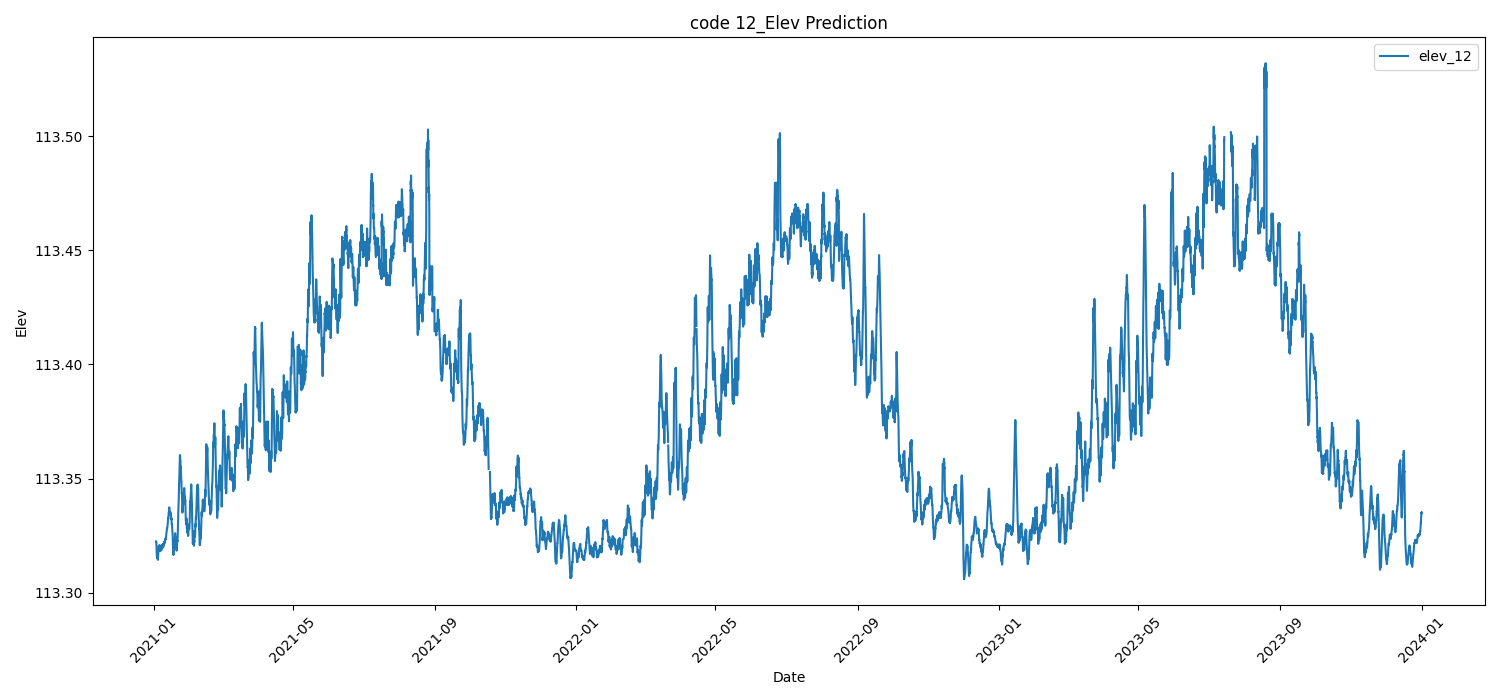
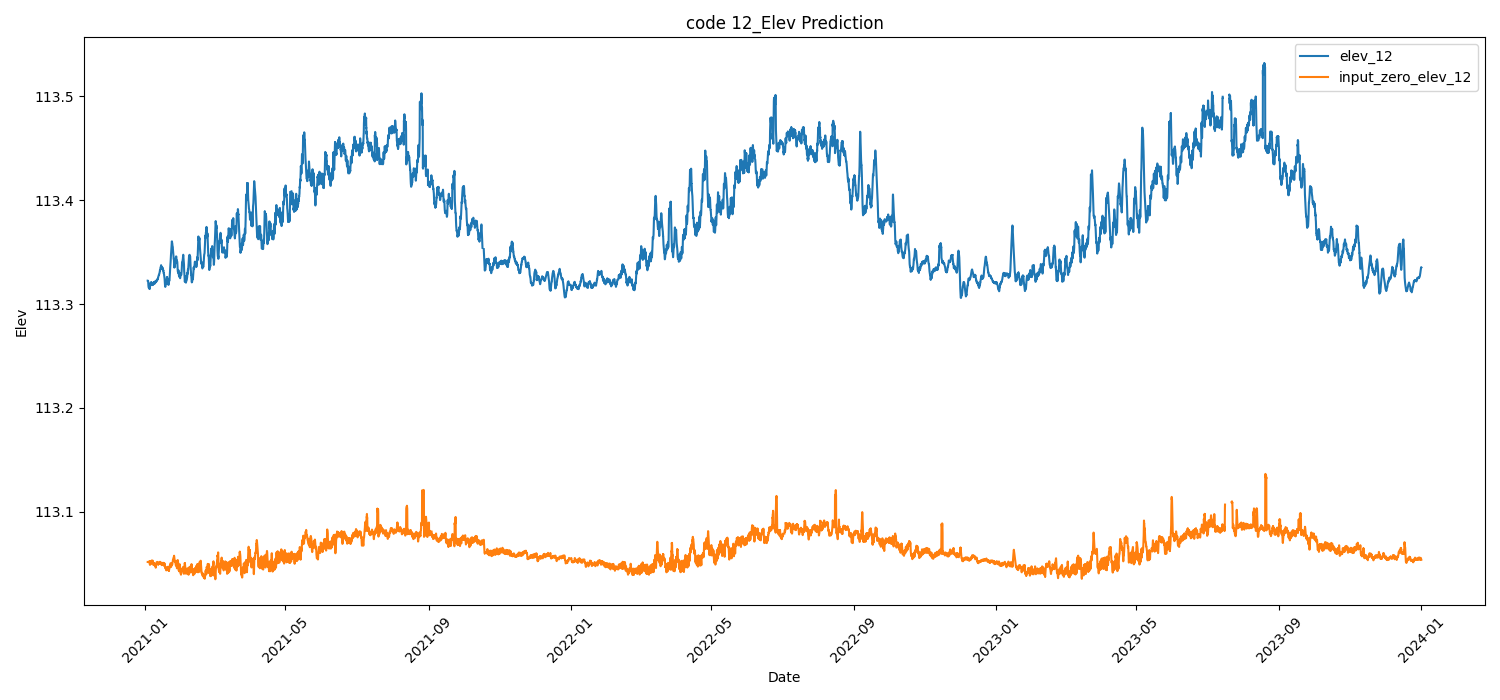
우리 올라갔어!!

diff --git a/TST/TST_test/encoder_tst_test.py b/TST/TST_test/encoder_tst_test.py
@@ -4,78 +4,61 @@ import torch
 import torch.nn as nn
 from torch.utils.data import DataLoader, Dataset, Subset
 from sklearn.preprocessing import StandardScaler
+import matplotlib.pyplot as plt
 import math
 import random
-import matplotlib.pyplot as plt # Matplotlib import 추가
 
 
-# --------------------
-# 1. 클래스 및 함수 정의 (Encoder-Only 모델 사용)
-# --------------------
 
 class PositionalEncoding(nn.Module):
     def __init__(self, d_model, max_len=5000):
         super(PositionalEncoding, self).__init__()
         pe = torch.zeros(max_len, d_model)
-        position = torch.arange(0, max_len, dtype=torch.float).unsqueeze(1) 
-        div_term = torch.exp(torch.arange(0, d_model, 2).float() * (-math.log(10000.0) / d_model))
+        position = torch.arange(0, max_len, dtype=torch.float).unsqueeze(1) #shape=(max_len,1)
+        div_term = torch.exp(torch.arange(0, d_model, 2).float() * (-math.log(10000.0) / d_model)) #오버플로우 예방 exp+ln
         pe[:, 0::2] = torch.sin(position * div_term)
-        pe[:, 1::2] = torch.cos(position * div_term)
-        pe = pe.unsqueeze(0).transpose(0, 1)
-        self.register_buffer('pe', pe)
+        pe[:, 1::2] = torch.cos(position * div_term) #shape=(max_len,d_model)
+        pe = pe.unsqueeze(0).transpose(0, 1) #shape=(max_len,1,d_model)
+        self.register_buffer('pe', pe) #위치 인코더 값 고정 -> 버퍼저장
     def forward(self, x):
-        # x.size(0) is the sequence length
         return x + self.pe[:x.size(0), :]
 
+
 class TimeSeriesDataset(Dataset):
-    def __init__(self, x_data, y_data, dates, input_len=24, pred_len=1, is_inference=False):
+    def __init__(self, x_data, y_data, dates, input_len=24, pred_len=1):
         self.x_data = x_data
         self.y_data = y_data
-        self.dates = [str(d) for d in dates]
         self.input_len = input_len
         self.pred_len = pred_len
-        self.is_inference = is_inference # 추론 모드 플래그 추가
+        self.dates = [str(d) for d in dates] #날짜 문자열로 변경
 
     def __len__(self):
-        # 학습: 마지막 시점까지 데이터를 만들 수 있는 인덱스 + 1
-        # 추론: 전체 시계열에서 인코더 입력 길이만큼 빼서 첫 예측 시작점을 찾음
-        if self.is_inference:
-            return len(self.x_data) - self.input_len + 1
-        else:
-            return len(self.x_data) - self.input_len - self.pred_len + 1
+        return len(self.x_data) - self.input_len - self.pred_len + 1
 
     def __getitem__(self, idx):
         x = self.x_data[idx:idx+self.input_len]
-        date = self.dates[idx+self.input_len-1] # 인코더의 마지막 시점 날짜
-
-        if not self.is_inference:
-            # 학습/검증: 타겟 Y값 존재
-            y = self.y_data[idx+self.input_len:idx+self.input_len+self.pred_len]
-            return torch.tensor(x, dtype=torch.float32), torch.tensor(y, dtype=torch.float32), date
-        else:
-            # 추론: 타겟 Y값은 사용하지 않음
-            # 타겟 날짜는 인코더 마지막 시점의 다음 시점입니다.
-            prediction_date = self.dates[idx + self.input_len] if idx + self.input_len < len(self.dates) else None
-            return torch.tensor(x, dtype=torch.float32), torch.empty(self.pred_len, 1, dtype=torch.float32), prediction_date
-
+        y = self.y_data[idx+self.input_len:idx+self.input_len+self.pred_len]
+        date = self.dates[idx+self.input_len]
+        return torch.tensor(x, dtype=torch.float32), torch.tensor(y, dtype=torch.float32), date
+#이때, Q,K,V 벡터의 차원(논문에서는 64 = d model(512) / num_heads(8) ) < d model의 차원 (논문에서는 512)
 
 class TimeSeriesTransformer(nn.Module):
     def __init__(self, feature_size, d_model=32, nhead=4, num_layers=1, dropout=0.1, pred_len=1):
         super(TimeSeriesTransformer, self).__init__()
-        self.embedding = nn.Linear(feature_size, d_model) 
-        self.pos_encoder = PositionalEncoding(d_model) 
-        encoder_layer = nn.TransformerEncoderLayer(d_model=d_model, nhead=nhead, dropout=dropout, batch_first=False) 
-        self.transformer_encoder = nn.TransformerEncoder(encoder_layer, num_layers=num_layers) 
-        self.fc_out = nn.Linear(d_model, pred_len) 
+        self.embedding = nn.Linear(feature_size, d_model) #특징 차원을 d_model 과 동일하게 바꿔줌
+        self.pos_encoder = PositionalEncoding(d_model) #위치 인코딩
+        encoder_layer = nn.TransformerEncoderLayer(d_model=d_model, nhead=nhead, dropout=dropout, batch_first=False) # 단일 레이어#batch_first = false <- 입력 데이터 차원 순서 (시퀀스 길이,배치크기,특징 차원)
+        self.transformer_encoder = nn.TransformerEncoder(encoder_layer, num_layers=num_layers) #지정 수만큼 인코더 레이어 복제
+        self.fc_out = nn.Linear(d_model, pred_len) #입력 차원-> 출력 차원 길이로 변환
         self.d_model = d_model
 
     def forward(self, x):
-        x = self.embedding(x) * math.sqrt(self.d_model) 
-        x = x.permute(1, 0, 2)
-        x = self.pos_encoder(x) 
-        out = self.transformer_encoder(x) 
-        out = out[-1, :, :] # 마지막 시점의 출력값
-        out = self.fc_out(out)
+        x = self.embedding(x) * math.sqrt(self.d_model) #임베딩 값(d_model 차원으로 변환) -> 스케일링 : attention score
+        x = x.permute(1, 0, 2)#입력텐서 차원 순서 변경
+        x = self.pos_encoder(x) #임베딩 정보 더하기
+        out = self.transformer_encoder(x) #전체 인코더레이어 통과
+        out = out[-1, :, :] #마지막 시점의 출력값 (24일 간의 데이터를 모두 합쳐놓은 값)
+        out = self.fc_out(out) #차원 변경
         return out
 
 def nse(obs, sim):
@@ -84,123 +67,47 @@ def nse(obs, sim):
     return 1 - np.sum((sim - obs)**2) / denominator
 
 def kge(obs, sim):
-    # NaN이나 무한대 값 처리
-    sim = sim[~np.isnan(sim)]
-    obs = obs[~np.isnan(obs)]
-    if len(obs) == 0 or np.std(obs) == 0 or np.std(sim) == 0: return -np.inf
-    
+    if np.std(obs) == 0 or np.std(sim) == 0: return -np.inf
     r = np.corrcoef(sim, obs)[0, 1]
-    # np.corrcoef가 NaN을 반환하는 경우 대비
-    if np.isnan(r): return -np.inf 
-    
     alpha = np.std(sim) / np.std(obs)
     beta = np.mean(sim) / np.mean(obs)
     return 1 - np.sqrt((r-1)**2 + (alpha-1)**2 + (beta-1)**2)
 
 
-# --------------------
-# 2. 데이터 로드 및 전처리
-# --------------------
+ddf = pd.read_csv("TST/TST_test/code_4.csv")
+test_df=pd.read_csv("total_rename_data/test_inputs.csv")
+ddf["ymd"] = pd.to_datetime(ddf["ymd"])
 
-# ⭐ 학습 데이터: 2014_2020_시계열_지하수_기상_train.csv (파일 경로는 환경에 맞게 조정하세요)
-ddf_train = pd.read_csv("total_rename_data_trainData.csv", encoding='utf-8')
-# ⭐ 추론 데이터: TST_test1.csv
-test_df_raw = pd.read_csv('trainData.csv') 
+ddf = ddf.ffill()
 
-# 날짜 변환 및 결측치 처리
-ddf_train["ymd"] = pd.to_datetime(ddf_train["ymd"])
-test_df_raw["ymd"] = pd.to_datetime(test_df_raw["ymd"])
-ddf_train = ddf_train.ffill()
-test_df_raw = test_df_raw.ffill()
-
-ddf_train['code_new'] = ddf_train['code_new'].astype(str)
-test_df_raw['code_new'] = test_df_raw['code_new'].astype(str)
-
-
-device = torch.device("cuda" if torch.cuda.is_available() else "cpu")
-all_preds_df = None 
-
-# 특성 열 목록 (ddf_train 기반)
-feature_cols = [col for col in ddf_train.columns if col not in ["ymd", "code_new", "elev"]]
-INPUT_LEN = 24
-PRE_STEPS = INPUT_LEN # 이전 시계열 데이터 연결 길이
-
-# ⭐ 최종 제출에 사용될 코드와 열 이름을 매핑 (학습 데이터의 순서를 기준으로 1부터 12까지 부여)
-all_train_codes = sorted(ddf_train['code_new'].unique().tolist())
-code_mapping = {code_name: str(i + 1) for i, code_name in enumerate(all_train_codes)}
-
-
-# --------------------
-# 4. 관측소(code_new)별 학습 및 추론 루프
-# --------------------
-
-for code, df_train_full in ddf_train.groupby('code_new'):
-    # 해당 코드가 최종 제출 12개 코드에 포함되지 않으면 건너뜁니다.
-    if code not in code_mapping:
-        continue
-
-    print(f"\n=======================================================")
-    print(f"--- Processing code_new: {code} (-> Column {code_mapping[code]}) ---")
-    
-    # 1. 스케일링 설정 및 학습 데이터셋 준비
-    df_train_full = df_train_full.sort_values(by="ymd").reset_index(drop=True)
-    train_features = df_train_full[feature_cols].values
-    train_target = df_train_full[["elev"]].values
-    
+for code,df in ddf.groupby('code_new'):
+    df = df.sort_values(by="ymd").reset_index(drop=True)
+    features = df.drop(columns=["ymd", "code_new", "elev"])
+    target = df[["elev"]].values
     feature_scaler = StandardScaler()
     target_scaler = StandardScaler()
-    scaled_train_features = feature_scaler.fit_transform(train_features)
-    scaled_train_target = target_scaler.fit_transform(train_target) # target_scaler는 fit_transform 사용
-
-    
-    # Encoder-only 모델의 학습 데이터셋
+    scaled_features = feature_scaler.fit_transform(features)
+    scaled_target = target_scaler.fit_transform(target)
     dataset = TimeSeriesDataset(
-        x_data=scaled_train_features,
-        y_data=scaled_train_target,
-        dates=df_train_full["ymd"].values,
-        input_len=INPUT_LEN, pred_len=1, is_inference=False
+        x_data=scaled_features,
+        y_data=scaled_target,
+        dates=df["ymd"].values,
+        input_len=24, pred_len=1
     )
+    train_size = int(len(dataset) * 0.8)
+    train_dataset = Subset(dataset, range(train_size))
+    test_dataset = Subset(dataset, range(train_size, len(dataset)))
+    train_loader = DataLoader(train_dataset, batch_size=128, shuffle=False)
+    test_loader = DataLoader(test_dataset, batch_size=128, shuffle=False)
 
-    # 학습 데이터 로더 (전체 데이터셋 사용)
-    train_loader = DataLoader(dataset, batch_size=128, shuffle=False)
     
-    # 2. 추론 데이터 구성 (오버랩 데이터 병합)
-    # 추론을 위해 마지막 24개 시점 데이터 (elev 포함)를 가져와 테스트 데이터와 합칩니다.
-    df_train_overlap = df_train_full.tail(PRE_STEPS).reset_index(drop=True)
-    
-    # test_df_raw 사용 (누락 처리 로직 제거 반영)
-    df_test_raw_code = test_df_raw[test_df_raw['code_new'] == code].copy().reset_index(drop=True)
-    
-    # 학습 데이터의 마지막 부분 + 테스트 데이터를 합쳐서 추론용 전체 시계열 구성
-    df_inference_merged = pd.concat([
-        df_train_overlap[['ymd'] + feature_cols + ['elev']], 
-        df_test_raw_code[['ymd'] + feature_cols]
-    ], ignore_index=True)
-    
-    # 추론 데이터셋의 target(elev)을 채워 넣음 (단순히 이전 값으로 ffill)
-    df_inference_merged['elev'] = df_inference_merged['elev'].ffill().fillna(0) 
+    device = torch.device("cuda" if torch.cuda.is_available() else "cpu")
+    model = TimeSeriesTransformer(feature_size=scaled_features.shape[1]).to(device)
 
-    inference_features = df_inference_merged[feature_cols].values
-    inference_target = df_inference_merged[["elev"]].values
-    
-    # feature_scaler와 target_scaler는 train 데이터로 fit된 것을 사용해야 함
-    scaled_inference_features = feature_scaler.transform(inference_features)
-    scaled_inference_target = target_scaler.transform(inference_target)
-
-    inference_dataset = TimeSeriesDataset(
-        x_data=scaled_inference_features, 
-        y_data=scaled_inference_target, # 타겟값은 사용되지 않지만, 데이터셋 구조를 맞춤
-        dates=df_inference_merged["ymd"].values,
-        input_len=INPUT_LEN, pred_len=1, is_inference=True
-    )
-    inference_loader = DataLoader(inference_dataset, batch_size=128, shuffle=False)
-    
-    # 3. 모델 학습 (제공된 코드와 동일)
-    model = TimeSeriesTransformer(feature_size=scaled_train_features.shape[1]).to(device)
     criterion = nn.MSELoss()
     optimizer = torch.optim.AdamW(model.parameters(), lr=0.001)
+    #scheduler = torch.optim.lr_scheduler.ReduceLROnPlateau(optimizer, 'min', factor=0.5, patience=3) #손실함수 안줄어 들면 rate 줄이기
     epochs = 5
-    
     for epoch in range(epochs):
         model.train()
         epoch_loss = 0
@@ -211,6 +118,7 @@ for code, df_train_full in ddf_train.groupby('code_new'):
             loss = criterion(preds, y.view(-1, 1))
             
             if torch.isnan(loss):
+                print(f"Epoch {epoch+1}: Loss is NaN. Skipping update.")
                 continue
             
             loss.backward()
@@ -219,41 +127,31 @@ for code, df_train_full in ddf_train.groupby('code_new'):
             epoch_loss += loss.item()
         
         avg_loss = epoch_loss / len(train_loader)
-        # print(f"Epoch {epoch+1}/{epochs}, Loss: {avg_loss:.6f}") # 학습 중 출력은 주석 처리
-    
-    # 4. 검증 데이터 평가 및 점수 확인 (NSE, KGE) - 제거됨
-    
-    # 5. 최종 추론 (Inference)
-    print(f"--- Generating Predictions for {code} ---")
-    preds_list, dates_list = [], []
-    
-    model.eval() # 추론 전에 모델을 평가 모드로 전환
+        print(f"Epoch {epoch+1}/{epochs}, Loss: {avg_loss:.6f}")
+        #scheduler.step(avg_loss)
+
+    # --------------------
+    # 평가 및 예측 (✨ 수정됨)
+    # --------------------
+    model.eval()
+    preds_list, actuals_list, dates_list = [], [], []
+
     with torch.no_grad():
-        for x, _, pred_date in inference_loader:
-            x = x.to(device)
+        for x, y, d_batch in test_loader:
+            x, y = x.to(device), y.to(device)
             pred = model(x)
             
             preds_list.extend(pred.view(-1, 1).cpu().numpy())
-            # 추론 데이터셋에서 예측 시점의 날짜를 가져옵니다.
-            dates_list.extend(pred_date)
+            actuals_list.extend(y.view(-1, 1).cpu().numpy())
+            
+            # ✨ 해결 2: d_batch는 이제 날짜 문자열의 튜플이므로 바로 extend
+            dates_list.extend(d_batch)
 
-    # 6. 결과 정리 및 병합
     preds_arr = target_scaler.inverse_transform(np.array(preds_list))
-    
-    # 예측 날짜는 inference_loader에서 가져온 날짜 (다음 시점)
-    final_dates = pd.to_datetime([d for d in dates_list if d is not None])
-    final_preds = preds_arr[:len(final_dates)] # 날짜 개수에 맞게 예측 값 자르기
+    actuals_arr = target_scaler.inverse_transform(np.array(actuals_list))
 
-    # ⭐ 열 이름을 제출 형식의 숫자 문자열로 사용 ('1' ~ '12')
-    column_name_for_submission = code_mapping[code]
-    
-    current_preds_df = pd.DataFrame({'ymd': final_dates, column_name_for_submission: final_preds.flatten()})
-    current_preds_df = current_preds_df.set_index('ymd')
-    
-    if all_preds_df is None:
-        all_preds_df = current_preds_df
-    else:
-        all_preds_df = all_preds_df.merge(current_preds_df, left_index=True, right_index=True, how='outer')
+    # 이제 dates_list는 문자열 리스트이므로 오류 없이 변환됩니다.
+    dates_arr = pd.to_datetime(dates_list[:len(preds_arr)])
 
 
 print("\n=======================================================")
@@ -275,4 +173,4 @@ print("\n--- Final Output (First 5 Rows - Submission Format) ---")
 print(final_output.head())
 
 # 최종 결과 파일을 저장하려면 아래 주석을 해제하세요.
-final_output.to_csv("TST_test2.csv", index=False, encoding='utf-8')
+# final_output.to_csv("submission_final_predictions.csv", index=False, encoding='utf-8')

diff --git a/TST/TST_test/show_graph/graph.py b/TST/TST_test/show_graph/graph.py
@@ -7,22 +7,24 @@ from sklearn.preprocessing import StandardScaler
 import matplotlib.pyplot as plt
 import math
 import random
+import os
 
 # 데이터 로드
 df = pd.read_csv('TST_test1.csv')
-ddf=pd.read_csv('TST_test11.csv')
+ddf = pd.read_csv('TST_test11.csv')
 
 # 날짜
 dates_arr = pd.to_datetime(df['ymd'])
+min_len = min(len(df), len(ddf))
 
-# 플롯
+dates_arr = pd.to_datetime(df['ymd'])[:min_len]
 
 for i in range(1, 13):
     plt.figure(figsize=(15, 7))
-    col_name = str(i)  # ✅ 숫자를 문자열로 변환
-    if col_name in df.columns:  # ✅ 실제 열 존재 확인
-        plt.plot(dates_arr, df[col_name], '-', label=f"elev_{i}")
-        plt.plot(dates_arr, ddf[col_name], '-', label=f"input_zero_elev_{i}")
+    col_name = str(i)
+    if col_name in df.columns and col_name in ddf.columns:
+        plt.plot(dates_arr, df[col_name][:min_len], '-', label=f"elev_{i}")
+        plt.plot(dates_arr, ddf[col_name][:min_len], '-', label=f"input_zero_elev_{i}")
     plt.xlabel("Date")
     plt.ylabel("Elev")
     plt.title(f"code {i}_Elev Prediction")
@@ -30,5 +32,8 @@ for i in range(1, 13):
     plt.xticks(rotation=45)
     plt.tight_layout()
     plt.savefig(f"TST/TST_test/show_graph/TST_predict_{i}.png")
+    plt.close()
+
+
 
 

diff --git a/TST/tst_test1_fill.py b/TST/tst_test1_fill.py
@@ -5,7 +5,7 @@ import numpy as np
 
 # 1. 파일 로드 및 초기 설정
 # 파일 이름이 TST_test1.csv였다면, TST_test1_wide.csv 등으로 이름을 변경하여 테스트하시는 것을 권장합니다.
-file_path = 'TST_test1.csv'  # 파일 이름을 실제 파일명으로 지정
+file_path = 'final_test_predictions_wide.csv'  # 파일 이름을 실제 파일명으로 지정
 try:
     # Wide Format 파일 로드 (첫 번째 행은 'ymd', '1', '2', ... 열 이름이 와야 합니다)
     df = pd.read_csv(file_path)
@@ -69,13 +69,18 @@ else:
 
 
 # 6. 수정된 데이터를 새 파일로 저장
-output_file_path = 'TST_test3_.csv'
+output_file_path = 'TST_test5_.csv'
 df_final.to_csv(output_file_path, index=False)
 print(f"✅ 수정된 파일이 {output_file_path}으로 저장되었습니다.")
 
 # 최종 결과 확인 (누락된 부분이 채워졌는지)
 print("\n--- 최종 결과 (첫 30행) ---")
 print(df_final.head(30).to_string())
+'''
+
+df=pd.read_csv('not_filled_TST_test1.csv')
+df = df.ffill().bfill()
+df.to_csv("filled_TST_test_decoder_input1.csv", index=False)'''
 
 
 
